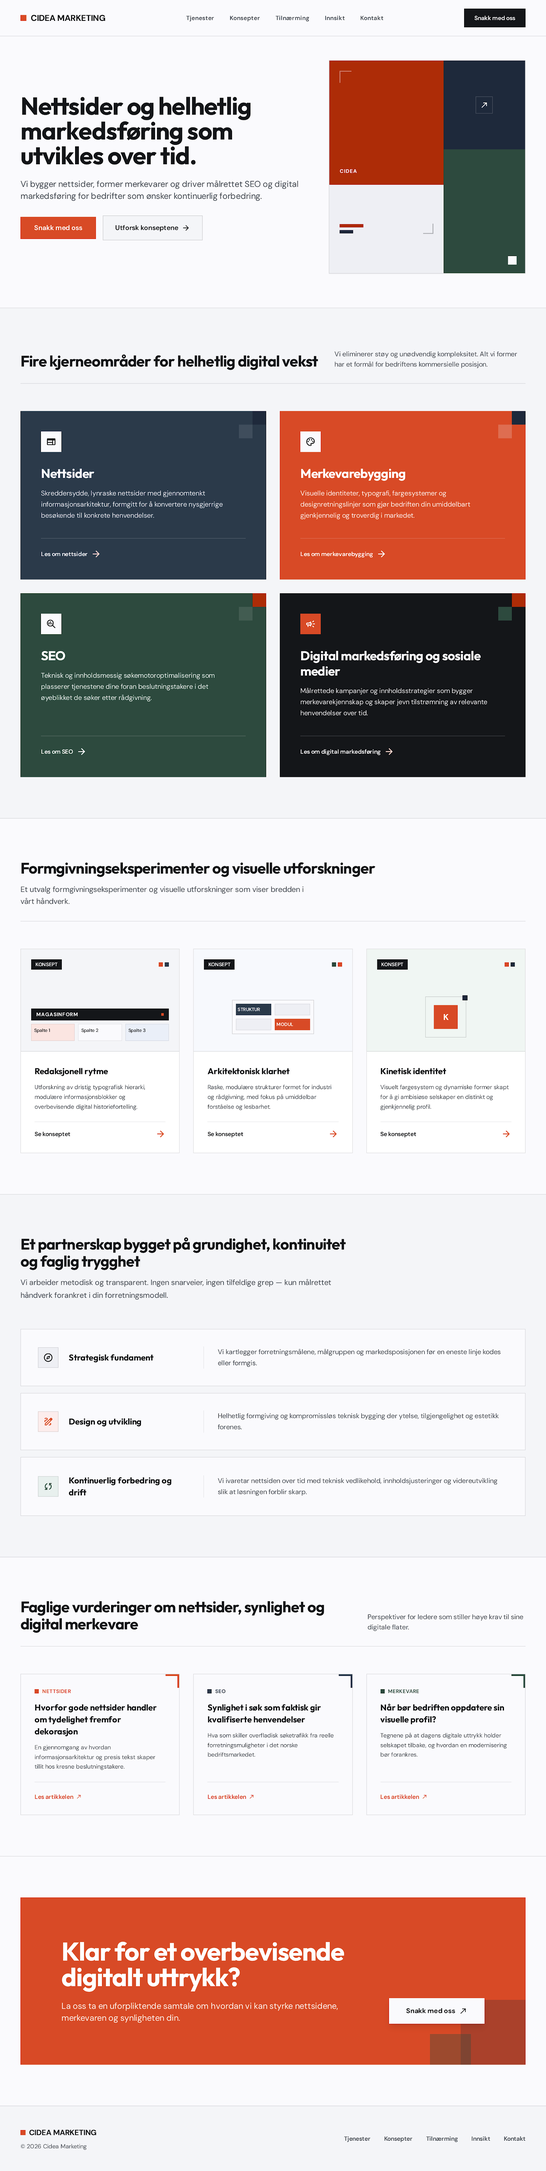
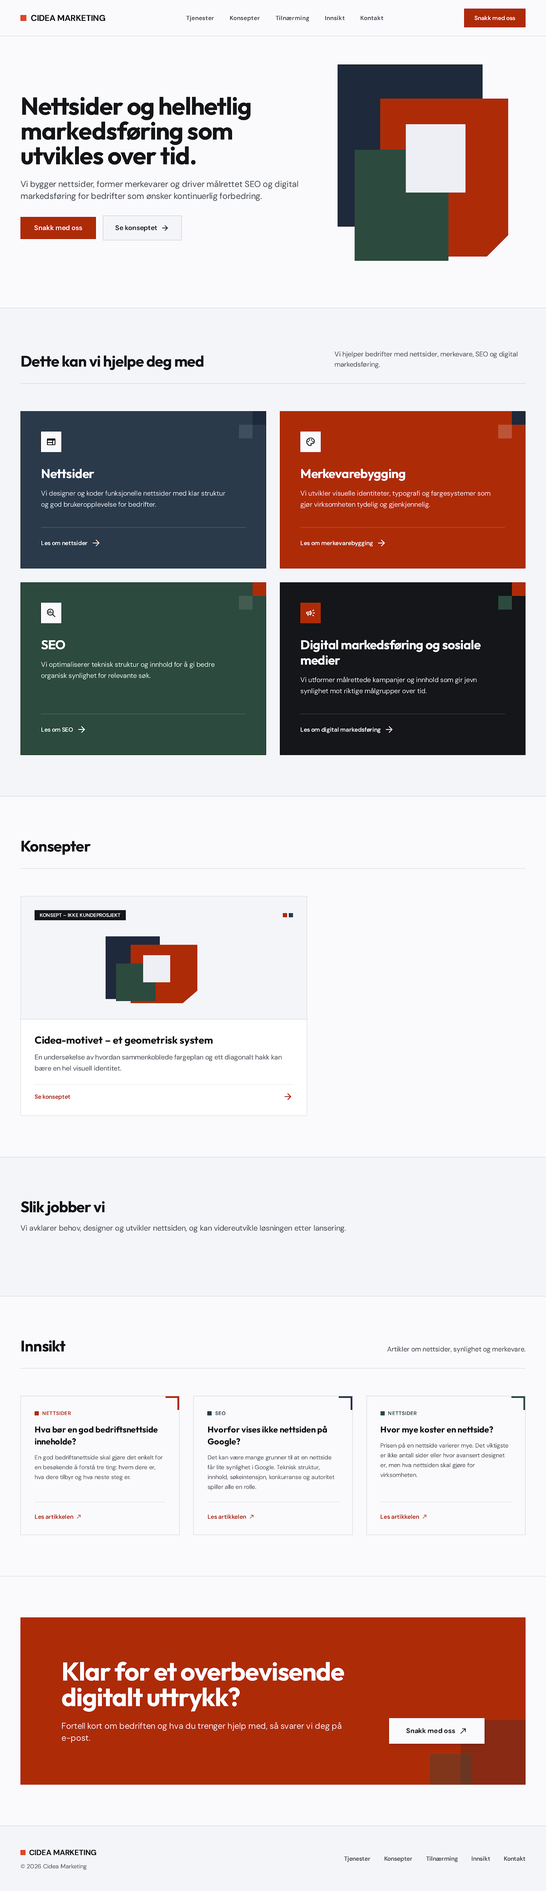
Phase 3 draft 2: all page templates, mobile drafts, motif, measured fonts/contrast, docs

diff --git a/docs/cinematic-pilot/phase3/DESIGN.md b/docs/cinematic-pilot/phase3/DESIGN.md
@@ -1,19 +1,19 @@
 # Designsystem: Cidea Marketing – «Fremtidig håndverk»
 
-**Versjon:** 0.1 (fase 3, utkast) · **Dato:** 2026-10-15 · **Status:** til godkjenning av ChatGPT og bruker, **ikke endelig**
+**Versjon:** 0.2 (fase 3, utkast 2) · **Dato:** 2026-10-16 · **Status:** til endelig visuell vurdering av ChatGPT og bruker, **ikke godkjent**
 **Stitch-prosjekt:** `93182330119187096` · **Stitch-designsystem:** `assets/473aa8ea5d1b4f6ab8db120fc0d1e0e2`
-**Referanseskjermer:** forside desktop `8637a06a08d144859b9986fc1bdb6587`, mobil `d6cda70cf4f642aa99c9ce01425ad8c8`; alle sidemaler i [`README.md`](README.md) (skjermbilder i [`screens/`](screens/))
+**Referanseskjermer:** forside desktop `d9d1feef551d4fe6aad123f6c89bd3a5`, mobil `83a854a8a81d403e990b7c70312f7fa2`; alle sidemaler i [`README.md`](README.md) (skjermbilder i [`screens/`](screens/))
 **Kilde for verdiene:** Tailwind-konfigurasjonen og klassene i Stitch-HTML-en til referanseskjermene (målt av Claude), supplert med Stitch-designsystemet. Der Stitch sin egen designsystem-tekst er utdatert (den beskriver fortsatt harde offset-skygger, kremlerret og hårlinjerammer som er fjernet i fase 2–3), gjelder skjermene og dette dokumentet.
 
 ## 1. Visuell idé og atmosfære
 
 Nordisk, konstruert og selvsikker, som et grafisk verksted med moderne presisjon. Strukturen bæres av **store, mettede fargeflater** i stedet for rammer og skygger. Lys og rolig grunnflate, tung og tydelig typografi, mye luft mellom moduler. Ingen fotografi, ingen gradienter, ingen glass-effekter, ingen «klistremerker».
 
-**Cidea-motivet:** sammenkoblede, rettvinklede fargeplan (terrakotta, marine, skoggrønn, lys stein) som griper inn i hverandre etter én geometrisk regel, med en karakteristisk innskjæring i hjørnet. Motivet brukes
-- **stort** som heltekunst (full heltehøyde på desktop),
-- **lite** som hjørnemarkør på tjenestefelt, konseptkort og artikkelkort.
+**Cidea-motivet (beslutning ChatGPT, utkast 1, punkt 1):** 2–4 sammenkoblede, aksejusterte fargeplan. **Nøyaktig ett plan har et 45°-hakk i nedre høyre hjørne** (hakk = kortsiden / 6), og hakket er alltid synlig. Ingen strek, sirkel, stiplet linje eller tekst i grafikken. Komposisjonen varierer per side, men regelen er den samme. Full spesifikasjon, generator og alle varianter (hero desktop og mobil, tjenestemarkører, artikkel, konseptkort, 404, ikon): [`motif/README.md`](motif/README.md).
+- **Stort** som heltekunst (full heltehøyde på desktop, full innholdsbredde på mobil).
+- **Lite** som hjørnemarkør på tjenestefelt, konseptkort og artikkelkort.
 
-> **Åpent punkt (til ChatGPT):** den sterkeste varianten av motivet finnes i Tilnærming-heroen (sammenkoblede plan med én diagonal hjørneinnskjæring). Forside, Nettsider og Konsepter bruker fortsatt en enklere rektangelvariant, og mobil-forsiden avviker (sirkelform). Motivets endelige regel må låses før fase 4 og tegnes som eget SVG.
+> Status utkast 2: motivet er brukt på forside, Nettsider, Konsepter, Tilnærming, Kontakt, Artikkel og de nye sidene. Unntak: fremhevet artikkel på Innsikt desktop har fortsatt nestede kvadrater uten hakk (se README).
 
 ## 2. Farger og roller
 
@@ -42,7 +42,7 @@ Nordisk, konstruert og selvsikker, som et grafisk verksted med moderne presisjon
 | `#4A4E54` på `#FAFAFD` | 8,03 | OK |
 | `#D84A26` på `#FAFAFD` / `#FFFFFF` | 4,09 / 4,26 | **Ikke** for lenker og små etiketter; bruk `#AD2C07` (6,42 / 6,69) |
 
-> Merk: Stitch-skissene bruker i dag `#D84A26` både på knapper og i små lenker. Det må endres i implementeringen etter regelen over (avvik fra skisse, begrunnet i tilgjengelighet).
+> Utkast 2: alle Stitch-kall har fått regelen eksplisitt, og knappene i skissene bruker nå `#AD2C07`. Store terrakotta-flater (CTA-felt, tjenestefelt) i `#D84A26` med normal hvit brødtekst skal i implementeringen bruke `#AD2C07` som flatefarge. I skissene er CTA-feltene allerede `#AD2C07`.
 
 ## 3. Typografi
 
@@ -51,7 +51,7 @@ Nordisk, konstruert og selvsikker, som et grafisk verksted med moderne presisjon
 - **Begge:** Google Fonts, SIL Open Font License 1.1, støtter æ, ø, å. Skal **selvhostes** i implementeringen (ingen kall til Google Fonts).
 - **Én typografisk idé:** ingen kursiv serif-aksent eller tredje skrift.
 
-> Målt i nettleser (computed font): forside desktop er rettet til Outfit + DM Sans. Nettsider desktop rendres i systemskrift på grunn av en Stitch-feil (se README). Regelen er: overskrifter Outfit, alt annet DM Sans.
+> Målt i nettleser (computed font) for alle skjermer i utkast 2: Outfit + DM Sans. **Unntak:** Nettsider desktop (Stitch-feil, systemskrift). Korrigert referanse er laget ved å rendre samme Stitch-HTML lokalt med regelen `h1–h6 { font-family: Outfit } body, p, a, span, li, button, input, textarea, label { font-family: DM Sans }` og ingen andre endringer (fil merket «korrigert»). React-implementeringen setter fontene globalt fra disse tokenene, så feilen følger ikke med i koden.
 
 | Token | Desktop | Mobil |
 |---|---|---|
@@ -70,10 +70,11 @@ Lange norske ord («Markedsføring», «Merkevarebygging») skal aldri deles; ov
 - **Primærknapp:** fylt `#AD2C07`, hvit tekst (label-lg), hjørneradius 2 px (`0.125rem`), minst 44 px høy. Hover: mørkere flate (`#8A1D00`). Fokus: 3 px synlig ring. Tekst «Snakk med oss» → `/kontakt`.
 - **Sekundærknapp:** lys flate `#F4F5F8` eller hvit med tynn ramme (`#141619` 15 %), mørk tekst.
 - **Tjenestefelt:** store fargeflater (Nettsider = marine, Merkevarebygging = terrakotta, SEO = skoggrønn, Digital markedsføring = nesten-svart). Ikon i lite kvadrat, overskrift, én setning, lenke «Les om …» med pil. Motivmarkør i hjørnet. Ingen skygge.
-- **Konseptkort:** lys flate, etikett «Konsept» (nesten-svart med hvit tekst), illustrasjon, tittel, én setning, lenke «Se konseptet».
+- **Konseptkort:** lys flate, etikett **«Konsept – ikke kundeprosjekt»** (nesten-svart med hvit tekst), motivgrafikk, tittel, én setning, lenke «Se konseptet». Kun ekte, internt laget konsepter.
 - **Artikkelkort:** hvit flate, temaetikett, tittel, ingress, lenke «Les artikkelen», motivmarkør i hjørnet.
-- **Tilnærmingsliste:** rader med ikon, tittel og beskrivelse, delt av tynne linjer.
-- **Avsluttende CTA:** stort fargefelt (terrakotta-flate med dyp-terrakotta-knapp, eller skoggrønn), samme tekst på alle sider og skjermstørrelser.
+- **Prosess («Slik jobber vi»):** tre sammenhengende fargeplan (marine, dyp terrakotta, skoggrønn) side om side på desktop, stablet og fortsatt i berøring på mobil. Hvit tekst, ingen rammer.
+- **Liste («Hva du kan forvente»):** enkle rader delt av tynne linjer, uten rammer eller garantier.
+- **Avsluttende CTA:** stort fargefelt (dyp terrakotta eller skoggrønn) med overskrift «Klar for et overbevisende digitalt uttrykk?», setning «Fortell kort om bedriften og hva du trenger hjelp med, så svarer vi deg på e-post.» og knapp «Snakk med oss», identisk på alle sider og skjermstørrelser. Ikke på Kontakt og Personvern.
 - **Toppmeny:** ordmerke «CIDEA MARKETING» med lite terrakotta-kvadrat, lenker, mørk knapp «Snakk med oss». Mobil: knapp «Meny» (med tekst) og fullskjermmeny.
 - **Ikoner:** Material Symbols Outlined (Apache License 2.0), ett vekt-/fyllnivå. Selvhostes eller byttes til SVG.
 - **Skjema (kontakt):** etikett over felt, tydelig ramme, feilmelding i tekst (ikke kun farge).
@@ -98,9 +99,20 @@ Lange norske ord («Markedsføring», «Merkevarebygging») skal aldri deles; ov
 
 Ingen fotografi. All grafikk er egne, flate fargeplan og geometriske former som kan tegnes i SVG. Ingen AI-genererte bilder er brukt i konsept C. Se [`RETTIGHETER.md`](RETTIGHETER.md).
 
-## 8. Ikke avgjort / gjenstår før godkjenning
+## 8. Godkjent tekst (ChatGPT-review utkast 1) og åpne punkter
 
-1. Endelig regel for Cidea-motivet, og lik heltekunst på desktop og mobil.
-2. Ordmerke/logo: i dag tekst «CIDEA MARKETING» i Outfit med terrakotta-kvadrat. Ingen godkjent logofil finnes.
-3. All norsk tekst (overskrifter, ingresser, lenketekster) må godkjennes av ChatGPT.
-4. Tekst i Stitch-skissene som fortsatt bør vurderes: «Fire kjerneområder for helhetlig digital vekst» (desktop) mot «Kjerneområder for helhetlig vekst» (mobil), «Formgivningseksperimenter og visuelle utforskninger», «Et partnerskap bygget på grundighet, kontinuitet og faglig trygghet».
+| Element | Tekst | Status |
+|---|---|---|
+| H1 forside | «Nettsider og helhetlig markedsføring som utvikles over tid.» | Foreløpig godkjent av ChatGPT |
+| Primær CTA | «Snakk med oss» → `/kontakt` | Godkjent |
+| Avsluttende CTA, overskrift | «Klar for et overbevisende digitalt uttrykk?» | Godkjent |
+| Avsluttende CTA, setning | «Fortell kort om bedriften og hva du trenger hjelp med, så svarer vi deg på e-post.» | **Claudes forslag, til godkjenning** |
+| Tjenesteseksjon | «Dette kan vi hjelpe deg med» | ChatGPTs forslag, brukt likt på desktop og mobil |
+| Lenker | «Les om nettsider / merkevarebygging / SEO / digital markedsføring», «Se konseptet», «Les artikkelen» | Godkjent |
+| Konseptetikett | «Konsept – ikke kundeprosjekt» | Godkjent |
+| Tjenestebeskrivelser | Fra `docs/commercial-offer.md` (uten priser) | Til godkjenning |
+
+**Åpne punkter:**
+1. Ordmerke/logo: tekst «CIDEA MARKETING» i Outfit med terrakotta-kvadrat. Ingen godkjent logofil finnes (eier).
+2. H1 på Tilnærming: «Et langsiktig partnerskap for digital vekst og stabilitet.» – «stabilitet» bør vurderes.
+3. Motivregelen må godkjennes visuelt av bruker.

diff --git a/docs/cinematic-pilot/phase3/README.md b/docs/cinematic-pilot/phase3/README.md
@@ -1,5 +1,65 @@
-# Fase 3/9 – designsystem og sidemaler (utkast 1)
+# Fase 3/9 – designsystem og sidemaler
 
+## Utkast 2 (2026-10-16) – klart for endelig visuell vurdering
+
+**Status:** utkast 2 er ferdig og klart for **ChatGPTs og brukerens endelige visuelle vurdering**. Fase 3 er **ikke godkjent**. Ingen frontend-kode, merge, deploy eller betalte tjenester.
+**Grunnlag:** [`CHATGPT-REVIEW-UTKAST1.md`](CHATGPT-REVIEW-UTKAST1.md). Konsept C beholdt; ingen ny designretning.
+**Alt om kall, korrigeringer og målinger:** [`UTKAST2-LOGG.md`](UTKAST2-LOGG.md) · **Oversikt:** [`oversikt-utkast2.png`](oversikt-utkast2.png) · **Motiv:** [`motif/README.md`](motif/README.md)
+**Oppdatert:** [`DESIGN.md`](DESIGN.md) v0.2, [`SIDEPLAN.md`](SIDEPLAN.md) (inkl. faktagodkjenninger som bare eier kan gi), [`RETTIGHETER.md`](RETTIGHETER.md)
+
+### Gjeldende skjermer (13 sidemaler, 22 skjermer)
+
+| Side | Desktop | Mobil |
+|---|---|---|
+| Forside | `d9d1feef…` [bilde](screens/forside-desktop.png) | `83a854a8…` [bilde](screens/forside-mobil.png) |
+| Nettsider (tjenestemal) | `d353c204…` [korrigert typografi](screens/nettsider-desktop-korrigert.png) | `01caa6b9…` [bilde](screens/nettsider-mobil.png) |
+| Merkevarebygging | `4cc702e9…` [bilde](screens/merkevarebygging-desktop.png) | – (samme mal) |
+| SEO | – (samme mal) | `1a242cbc…` [bilde](screens/seo-mobil.png) |
+| Digital markedsføring | `652be3e3…` [bilde](screens/digital-markedsforing-desktop.png) | – (samme mal) |
+| Konsepter | `5fb1d1b6…` [bilde](screens/konsepter-desktop.png) | `6bb60eb8…` [bilde, rendret 390 px](screens/konsepter-mobil.png) |
+| Konsept: Cidea-motivet | `f764baae…` [bilde](screens/konsept-detalj-desktop.png) | `725ce4ce…` [bilde](screens/konsept-detalj-mobil.png) |
+| Tilnærming | `1d08e9b4…` [bilde](screens/tilnaerming-desktop.png) | `6314d0b2…` [bilde, rendret 390 px](screens/tilnaerming-mobil.png) |
+| Innsikt | `34a49455…` [bilde](screens/innsikt-desktop.png) | `41be1227…` [bilde](screens/innsikt-mobil.png) |
+| Artikkel | `5af05b50…` [bilde](screens/artikkel-desktop.png) | `f48dc482…` [bilde](screens/artikkel-mobil.png) |
+| Kontakt | `68f989a6…` [bilde](screens/kontakt-desktop.png) | `c0cbf2d2…` [bilde](screens/kontakt-mobil.png) |
+| Personvern | `c48131a6…` [bilde](screens/personvern-desktop.png) | – (artikkelmal) |
+| 404 | `3688cf83…` [bilde](screens/404-desktop.png) | `314bd16e…` [bilde](screens/404-mobil.png) |
+
+Skjermbilder fra utkast 1 er flyttet til [`screens/utkast1/`](screens/utkast1/), ikke slettet. Ingen Stitch-skjermer er slettet.
+
+### Kontroll mot ChatGPT-review utkast 1
+
+| Punkt | Status |
+|---|---|
+| 1 Motiv: ett diagonalt hakk, systematisk, SVG, ≥2 ulike bruk | Utført: regel + generator + 10 varianter (`motif/`). Brukt i alle heroer, tjenestemarkører, konseptkort, artikkel, 404, ikon. **Åpent:** heroene bruker stort sett samme komposisjon; variasjon per side bør designes i fase 4 |
+| 2 H1 forside | Beholdt: «Nettsider og helhetlig markedsføring som utvikles over tid.» |
+| 3 CTA | «Snakk med oss» → /kontakt. Avsluttende CTA identisk overalt. Setningen er Claudes forslag (se DESIGN.md § 8) |
+| 4 Sekundære lenker | «Les om …», «Se konseptet», «Les artikkelen». «Les mer»/«Metodikk»/«Se arkitektur»/«Kampanjeform» borte |
+| 5 Uverifiserbare påstander | Fjernet (kompromissløs, lynraske, aldri stagnerer, fagperson-/kontaktperson-løfter). Erstattet med prosessbeskrivelse |
+| 6 Tjenesteoverskrift | «Dette kan vi hjelpe deg med», lik på desktop og mobil |
+| 7 Konsepter | Bare ett ekte, internt laget konsept (Cidea-motivet), merket «Konsept – ikke kundeprosjekt», med egen detaljside. «Flere konsepter kommer» i stedet for oppdiktede kort |
+| 8 Innsikt | Titler og utdrag hentet ordrett fra `blog/*.md` |
+| 9 URL-er | Norsk IA ført inn i SIDEPLAN. Omdirigeringer ikke utført |
+| 10 Kontrast og fonter | Målt på alle skjermer: 3 små avvik (se logg). Nettsider desktop: typografi korrigert lokalt uten kreditter |
+| 11 Tilnærming | Rammede bokser erstattet av sammenhengende fargeplan og en enkel liste |
+| 12 Kontakt | Ingen kontaktdata eller svartidsløfte. Samtykke beskriver faktisk bruk. Personvern med tydelige hull |
+| Mobil for Konsepter, Tilnærming, Innsikt | Utført |
+| Tjenestevarianter | Merkevarebygging (D), SEO (M), Digital markedsføring (D) på felles mal, med ekte tilbudstekst (uten priser) |
+| Konsept-detalj, personvern, 404 | Utført (konsept D+M, personvern D, 404 D+M) |
+| Faktagodkjenninger fra eier | Listet i SIDEPLAN.md |
+
+### Til vurdering (ChatGPT / bruker)
+
+- H1 Tilnærming «… for digital vekst og stabilitet» («stabilitet» bør vurderes).
+- Konsepter-siden: «Hva betyr konsept hos oss?» har fortsatt «metodiske tankesett».
+- Innsikt desktop: fremhevet artikkelgrafikk følger ikke motivregelen (nestede kvadrater uten hakk). Kortene har fortsatt rammer.
+- Merkevarebygging og Digital markedsføring: «Hva vi leverer» vises som rammede kort; mindre rolig enn Nettsider-malen.
+- Konsepter desktop: CTA-feltet er grått, mens de andre sidene har fargefelt (teksten er lik).
+- Tjenestebeskrivelser fra `commercial-offer.md` må bekreftes av eier.
+
+---
+
+## Utkast 1 (2026-10-15) – historikk
 **Status:** utkast 1 er ferdig og **klart for vurdering** av ChatGPT og bruker. Fase 3 er **ikke godkjent**. Ingen kode, merge eller deploy.
 **Grunnlag:** [`phase2/REVIEW-C-RAFFINERT.md`](../phase2/REVIEW-C-RAFFINERT.md) (ChatGPT) og brukerens instruks 2026-10-15. Stitch har videreutviklet det valgte konseptet C i samme prosjekt (`93182330119187096`) med samme designsystem (`assets/473aa8ea5d1b4f6ab8db120fc0d1e0e2`); det er ikke laget noe nytt design.
 
@@ -8,20 +68,20 @@
 - [`SIDEPLAN.md`](SIDEPLAN.md) – alle sider, URL-forslag, seksjoner og åpne beslutninger
 - [`RETTIGHETER.md`](RETTIGHETER.md) – fonter, ikoner, grafikk, tekst og hva som må avklares
 - [`oversikt-sidemaler.png`](oversikt-sidemaler.png) – toppen av alle sidemaler, desktop og mobil
-- [`screens/`](screens/) – fullsideskjermbilder av gjeldende versjon
+- [`screens/utkast1/`](screens/utkast1/) – fullsideskjermbilder av gjeldende versjon
 - [`prompts/`](prompts/) – nøyaktig tekst sendt til Stitch
 
 ## Gjeldende skjermer
 
 | Side | Desktop (skjerm-ID) | Mobil (skjerm-ID) | Skjermbilder |
 |---|---|---|---|
-| Forside | `8637a06a08d144859b9986fc1bdb6587` | `d6cda70cf4f642aa99c9ce01425ad8c8` | [D](screens/forside-desktop.png) · [M](screens/forside-mobil.png) |
-| Nettsider (tjenestemal) | `c5c4a724f092487d89ff83f1b5626ccb` | `3ba34eab578b4994a7a080150ab78509` | [D](screens/nettsider-desktop.png) · [M](screens/nettsider-mobil.png) |
-| Konsepter | `a9c892230d5d407b8e4b72e717d81d73` | – | [D](screens/konsepter-desktop.png) |
-| Tilnærming | `292e808f0a7a405c842850bf01761193` | – | [D](screens/tilnaerming-desktop.png) |
-| Innsikt | `f11919039d264f988698de1d592612f1` | – | [D](screens/innsikt-desktop.png) |
-| Artikkel | `de0bfca3224b4dd68e5344e6993a0be4` | `efa238d80f754c929ef305685e7862a4` | [D](screens/artikkel-desktop.png) · [M](screens/artikkel-mobil.png) |
-| Kontakt | `804ed05a86054254b83d62d87cac1d51` | `9545dbf4accc491d947de4acb452906a` | [D](screens/kontakt-desktop.png) · [M](screens/kontakt-mobil.png) |
+| Forside | `8637a06a08d144859b9986fc1bdb6587` | `d6cda70cf4f642aa99c9ce01425ad8c8` | [D](screens/utkast1/forside-desktop.png) · [M](screens/utkast1/forside-mobil.png) |
+| Nettsider (tjenestemal) | `c5c4a724f092487d89ff83f1b5626ccb` | `3ba34eab578b4994a7a080150ab78509` | [D](screens/utkast1/nettsider-desktop.png) · [M](screens/utkast1/nettsider-mobil.png) |
+| Konsepter | `a9c892230d5d407b8e4b72e717d81d73` | – | [D](screens/utkast1/konsepter-desktop.png) |
+| Tilnærming | `292e808f0a7a405c842850bf01761193` | – | [D](screens/utkast1/tilnaerming-desktop.png) |
+| Innsikt | `f11919039d264f988698de1d592612f1` | – | [D](screens/utkast1/innsikt-desktop.png) |
+| Artikkel | `de0bfca3224b4dd68e5344e6993a0be4` | `efa238d80f754c929ef305685e7862a4` | [D](screens/utkast1/artikkel-desktop.png) · [M](screens/utkast1/artikkel-mobil.png) |
+| Kontakt | `804ed05a86054254b83d62d87cac1d51` | `9545dbf4accc491d947de4acb452906a` | [D](screens/utkast1/kontakt-desktop.png) · [M](screens/utkast1/kontakt-mobil.png) |
 
 Ikke laget i utkast 1 (gjenbruker maler, jf. SIDEPLAN): Merkevarebygging, SEO og Digital markedsføring (tjenestemal), konsept-detalj, personvern, 404, samt mobil for Konsepter, Tilnærming og Innsikt.
 

diff --git a/docs/cinematic-pilot/phase3/UTKAST2-LOGG.md b/docs/cinematic-pilot/phase3/UTKAST2-LOGG.md
@@ -1,14 +1,48 @@
 # Fase 3, utkast 2 – fremdriftslogg
 
-**Ramme:** maks 100 Stitch-kreditter (brukerens instruks 2026-10-16; kvote 0/400 ved start). Claudes eget tak: 22 kall (≈4 kreditter per kall som forsiktig anslag). Alle Stitch-kall kjøres **sekvensielt**, aldri flere redigeringer samtidig i samme prosjekt.
-**Grunnlag:** [`CHATGPT-REVIEW-UTKAST1.md`](CHATGPT-REVIEW-UTKAST1.md). Felles regler for alle kall: [`prompts/u2-00-regler.md`](prompts/u2-00-regler.md).
+**Status:** utkast 2 er **klart for endelig visuell vurdering** av ChatGPT og bruker. Fase 3 er **ikke godkjent**.
+**Ramme:** maks 100 Stitch-kreditter (brukerens instruks 2026-10-16; kvote 0/400 ved start). Claudes eget tak: 22 kall (≈4 kreditter per kall som forsiktig anslag). **Brukt: 21 kall.** Kredittforbruket er *ikke verifisert* før brukeren leser av telleren. Alle kall er kjørt **sekvensielt**, aldri flere redigeringer samtidig i samme prosjekt.
+**Grunnlag:** [`CHATGPT-REVIEW-UTKAST1.md`](CHATGPT-REVIEW-UTKAST1.md). Felles regler i alle kall: [`prompts/u2-00-regler.md`](prompts/u2-00-regler.md). Oversikt over alle sidemaler: [`oversikt-utkast2.png`](oversikt-utkast2.png).
 
-| # | Oppgave | Kall | Resultat | Kontroll (målt) |
-|---|---|---|---|---|
-| 0 | Motivregel som eget SVG (`motif/`) | 0 (lokalt) | 10 varianter, regelen sjekkes i skriptet | Oversikt: [`motif/motiv-oversikt.png`](motif/motiv-oversikt.png) |
-| 1 | Forside D+M: motiv, «Dette kan vi hjelpe deg med», ett ekte konsept, ekte artikkelutdrag, CTA | `edit_screens` | OK. Nye skjermer `069796fa…` / `482adc8b…` | Fonter OK. Overskrifter ulike D/M → steg 2 |
-| 2 | Forside D+M: like seksjonsoverskrifter, fjerne fylltekst | `edit_screens` | OK. `d9d1feef…` (D), `83a854a8…` (M) | Fonter OK, CTA OK, like overskrifter (Konsepter · Slik jobber vi · Innsikt). Merk: «Nettsteder» står i HTML-`<title>` (ikke synlig); rettes i implementeringen |
-| 3 | Nettsider D+M: motiv, ekte tilbudstekst, «minste tiltaket», ekte artikler | `edit_screens` | OK. `0bbd44be…` (D), `986bfd78…` (M) | Mobil: fonter OK. Desktop: **Stitch-feil, systemskrift**. Lokal korrigering laget (se under) |
-| 4 | Nettsider D+M: fjerne pitch- og fylltekst, fargeplan i «Slik jobber vi» | `edit_screens` | *pågår* | |
+## Kall-logg
 
-**Nettsider desktop – typografikorrigering uten kreditter:** Stitch-HTML-en for skjermen rendres lokalt i Chromium med designsystemets fontregel injisert (`h1–h6` Outfit, øvrig tekst DM Sans). Ingen andre endringer. Målt etterpå: `Outfit / DM Sans`. Det korrigerte skjermbildet brukes som referanse og er merket «korrigert» i filnavnet. React-implementeringen setter fontene globalt fra `DESIGN.md`, så feilen følger ikke med i koden.
+| # | Tid | Steg | Verktøy | Prompt | Resultat (skjerm-ID) |
+|---|---|---|---|---|---|
+| – | 13:00 | Cidea-motivet som eget SVG | lokalt (0 kreditter) | [`motif/`](motif/README.md) | 10 varianter, regelen sjekkes automatisk |
+| 1 | 13:15 | Forside D+M: motiv, tjenesteoverskrift, ett ekte konsept, ekte artikkelutdrag, CTA | `edit_screens` | [u2-01](prompts/u2-01-forside.md) | `069796fa…`, `482adc8b…` |
+| 2 | 13:18 | Forside D+M: like seksjonsoverskrifter, fylltekst fjernet | `edit_screens` | [u2-01b](prompts/u2-01b-forside-overskrifter.md) | **`d9d1feef…`** (D), **`83a854a8…`** (M) |
+| 3 | 13:21 | Nettsider D+M: motiv, ekte tilbudstekst, «minste tiltaket» | `edit_screens` | [u2-02](prompts/u2-02-nettsider.md) | `0bbd44be…`, `986bfd78…` |
+| 4 | 13:24 | Nettsider D+M: pitch- og fylltekst bort, fargeplan i «Slik jobber vi» | `edit_screens` | [u2-02b](prompts/u2-02b-nettsider-tekst.md) | **`d353c204…`** (D), **`01caa6b9…`** (M) |
+| 5 | 13:26 | Konsepter + Innsikt D: ett ekte konsept, ekte utdrag | `edit_screens` | [u2-03](prompts/u2-03-konsepter-innsikt.md) | **`5fb1d1b6…`**, **`34a49455…`** |
+| 6 | 13:28 | Tilnærming D: fargeplan, liste uten garantier, påstander fjernet | `edit_screens` | [u2-04](prompts/u2-04-tilnaerming.md) | **`1d08e9b4…`** |
+| 7 | 13:30 | Artikkel D+M, Kontakt D+M: motiv, samtykke, «Hva skjer videre?» | `edit_screens` | [u2-05](prompts/u2-05-artikkel-kontakt.md) | **`5af05b50…`**, **`f48dc482…`**, **`68f989a6…`**, **`c0cbf2d2…`** |
+| 8 | 13:32 | Konsepter mobil via variant | `generate_variants` | [u2-11](prompts/u2-11-variant-mobil.md) | **Bortkastet:** Stitch ignorerte MOBILE og laget en desktopvariant (`f627393b…`, brukes ikke) |
+| 9 | 13:34 | Konsepter mobil | `generate_screen_from_text` | [u2-12](prompts/u2-12-konsepter-mobil.md) | `6bb60eb8…`, mobiloppsett men merket DESKTOP → rendret lokalt i 390 px |
+| 10 | 13:36 | Tilnærming mobil | `generate_screen_from_text` | [u2-13](prompts/u2-13-tilnaerming-mobil.md) | `6314d0b2…`, samme som over → rendret lokalt i 390 px |
+| 11 | 13:37 | Innsikt mobil | `generate_screen_from_text` | [u2-14](prompts/u2-14-innsikt-mobil.md) | **`41be1227…`** |
+| 12 | 13:40 | Merkevarebygging D | `generate_screen_from_text` | [u2-20](prompts/u2-20-tjeneste-merkevarebygging.md) | `528f6980…` (hadde «Fase 1/2/3») |
+| 13 | 13:42 | SEO mobil | `generate_screen_from_text` | [u2-21](prompts/u2-21-tjeneste-seo-mobil.md) | **`1a242cbc…`** |
+| 14 | 13:44 | Digital markedsføring D | `generate_screen_from_text` | [u2-22](prompts/u2-22-tjeneste-digital.md) | **`652be3e3…`** |
+| 15 | 13:47 | Konsept-detalj D | `generate_screen_from_text` | [u2-30](prompts/u2-30-konsept-detalj.md) | **`f764baae…`** |
+| 16 | 13:48 | Konsept-detalj M | `generate_screen_from_text` | [u2-30](prompts/u2-30-konsept-detalj.md) | **`725ce4ce…`** |
+| 17 | 13:50 | Personvern D | `generate_screen_from_text` | [u2-40](prompts/u2-40-personvern.md) | **`c48131a6…`** |
+| 18 | 13:52 | 404 D | `generate_screen_from_text` | [u2-41](prompts/u2-41-404.md) | **`3688cf83…`** |
+| 19 | 13:54 | 404 M | `generate_screen_from_text` | [u2-41](prompts/u2-41-404.md) | **Tomt svar** (ingen skjerm returnert; `list_screens` ga `{}` ved kontroll) |
+| 20 | 13:58 | Merkevarebygging D: fjerne «Fase 1/2/3» | `edit_screens` | [u2-20b](prompts/u2-20b-merkevare-fiks.md) | **`4cc702e9…`** |
+| 21 | 14:00 | 404 M, nytt forsøk | `generate_screen_from_text` | [u2-41](prompts/u2-41-404.md) | **`314bd16e…`** |
+
+**Fet** = gjeldende skjerm i [`screens/`](screens/).
+
+## Korrigeringer uten kreditter (lokal rendring av Stitch-HTML)
+
+| Skjerm | Problem | Korrigering | Fil |
+|---|---|---|---|
+| Nettsider desktop (`d353c204…`) | Stitch-HTML mangler fontklasser, så den rendres i systemskrift | Samme HTML rendret i Chromium med designsystemets fontregel injisert, ellers uendret. Målt etterpå: Outfit / DM Sans | `screens/nettsider-desktop-korrigert.png` (originalen ligger ved som `…-stitch-systemskrift.png`) |
+| Konsepter mobil (`6bb60eb8…`), Tilnærming mobil (`6314d0b2…`) | Mobiloppsett, men Stitch merket skjermen DESKTOP og rendret den i 2560 px | Samme HTML rendret uendret i 390 px viewport (2×). Horisontal overflow: 0 px | `screens/konsepter-mobil.png`, `screens/tilnaerming-mobil.png` |
+
+## Målt kvalitet på alle 22 gjeldende skjermer
+
+- **Typografi (computed font i Chromium):** Outfit for overskrifter og DM Sans for tekst på alle skjermer. Unntak: Nettsider desktop i Stitch-original (korrigert, se over).
+- **Kontrast (WCAG 2.2 AA, hvert synlige tekstelement mot nærmeste bakgrunn):** 941 elementer målt, **3 under AA**, alle liten grå tekst på mobil: «Vi publiserer nye konsepter …» (4,34:1), «© 2026 Cidea Marketing» (4,05 og 3,99). Løses i implementeringen med `#4A4E54` (8,03:1).
+- **Forbudte ord** (kompromissløs, lynrask, aldri stagnerer, Nettsteder, Les mer, fast kontaktperson, nummerering): ingen synlige forekomster etter rettingene. «Les mer i personvernerklæringen» på Kontakt er en bevisst lenketekst med navngitt mål. «Nettsteder» finnes bare i en usynlig HTML-`<title>` på forsiden.
+- **Avsluttende CTA:** identisk overskrift, setning og knapp på alle sider som har den.

diff --git a/docs/cinematic-pilot/phase3/SIDEPLAN.md b/docs/cinematic-pilot/phase3/SIDEPLAN.md
@@ -1,6 +1,6 @@
 # Sideplan – Cidea Marketing (fase 3, utkast 1)
 
-**Status:** utkast fra Claude Code 2026-10-15, til godkjenning av ChatGPT og bruker. Planen beskriver **struktur og funksjon** per side. Endelig norsk tekst skrives og godkjennes av ChatGPT; tekst i Stitch-skissene er utkast.
+**Status:** utkast 2 (2026-10-16). Informasjonsarkitekturen med norske URL-er er **godkjent av ChatGPT som arbeidsmål** (review utkast 1, punkt 9). Omdirigeringer er **ikke** godkjent som teknisk trygge; de vurderes i implementerings- og SEO-fasen. Planen beskriver **struktur og funksjon** per side. Endelig norsk tekst skrives og godkjennes av ChatGPT; tekst i Stitch-skissene er utkast.
 **Visuell retning:** konsept C «Fremtidig håndverk» (Stitch-prosjekt `93182330119187096`). Designsystem: se [`DESIGN.md`](DESIGN.md).
 **Felles regler for alle sider:** kun norsk bokmål; «Nettsider» (aldri «Nettsteder»); ingen dekorativ nummerering, engelske etiketter, fylltekst, oppdiktede kunder/tall/sitater/kontaktopplysninger; hoved-CTA «Snakk med oss» → `/kontakt`; konseptarbeid merkes alltid «Konsept».
 
@@ -17,17 +17,17 @@
 |---|---|---|---|---|---|
 | Forside | `/` | `/` | Inntrykk av designkvalitet; forstå tilbudet på 15 s; finne kontakt | Hero med Cidea-motiv · tjenester som fargefelt · konsepter · tilnærming · innsikt (3 artikler) · CTA | ✔ (forbedret i fase 3) |
 | Nettsider | `/nettsider` | `/websites` | Forklare hva Cidea leverer innen nettsider og hvordan | Hero · hva vi leverer · slik jobber vi · vedlikehold og videreutvikling · relaterte konsepter · relaterte artikler · CTA | ✔ (tjenestemal) |
-| Merkevarebygging | `/merkevarebygging` | `/branding` | Samme mal som Nettsider | samme mal | bruker tjenestemalen |
-| SEO | `/seo` | `/seo` | Samme mal; forklarer løpende arbeid uten løfter om rangeringer | samme mal | bruker tjenestemalen |
-| Digital markedsføring og sosiale medier | `/digital-markedsforing` | `/digital-marketing` | Samme mal; innhold, kanaler, distribusjon | samme mal | bruker tjenestemalen |
+| Merkevarebygging | `/merkevarebygging` | `/branding` | Samme mal som Nettsider, eget innhold | samme mal | ✔ desktop (utkast 2) |
+| SEO | `/seo` | `/seo` | Samme mal; forklarer løpende arbeid uten løfter om rangeringer | samme mal | ✔ mobil (utkast 2) |
+| Digital markedsføring og sosiale medier | `/digital-markedsforing` | `/digital-marketing` | Samme mal; innhold, kanaler, distribusjon | samme mal | ✔ desktop (utkast 2) |
 | Konsepter | `/konsepter` | – (ny) | Vise designevne med tydelig merkede konseptutforskninger, ingen falske kunder | Intro · rutenett med konsept-kort · forklaring på hva et konsept er · CTA | ✔ |
-| Konsept (detalj) | `/konsepter/{slug}` | – | Ett konsept: idé, visuelle valg, hva det demonstrerer | Hero · bilder/grafikk · beskrivelse · tilbake til konsepter | senere (gjenbruker artikkelmal) |
+| Konsept (detalj) | `/konsepter/cidea-motivet` | – | Ett ekte, internt laget konsept: Cidea-motivet | Hero · regelen · slik brukes det · hva konseptet viser · tilbake | ✔ desktop + mobil (utkast 2) |
 | Tilnærming / Om Cidea | `/tilnaerming` | – (ny) | Tillit: hvem Cidea Marketing er (del av Cidea) og hvordan samarbeidet fungerer over tid | Hero · slik jobber vi · hva du kan forvente · om Cidea · CTA | ✔ |
 | Innsikt (bloggoversikt) | `/innsikt` | `/blog` | Publiserte artikler, filtrerbart på tema | Intro · temafilter (Nettsider, Merkevare, SEO, Digital markedsføring) · artikkelkort · CTA | ✔ |
 | Artikkel | `/innsikt/{slug}` | `/blog/{slug}` | Lesevennlig fagartikkel | Tittel · ingress · brødtekst med mellomtitler · relaterte artikler · CTA | ✔ |
 | Kontakt | `/kontakt` | – (i dag mailto) | Enkel henvendelse | Kort intro · skjema (navn, bedrift, e-post, hva gjelder det, melding) · personvernmerknad · bekreftelse | ✔ (uten oppdiktede kontaktdata) |
-| Personvern | `/personvern` | – | Påkrevd før skjema/analyse | Ren tekstside | ingen skisse nødvendig (artikkelmal) |
-| 404 | – | – | Hjelpe videre | Kort tekst · lenker til hovedsider | senere |
+| Personvern | `/personvern` | – | Påkrevd før skjema/analyse | Ren tekstside med tydelig merkede hull | ✔ desktop (utkast 2) |
+| 404 | – | – | Hjelpe videre | Kort tekst · lenker til hovedsider | ✔ desktop + mobil (utkast 2) |
 
 **Eksisterende artikler** (`blog/*.md`) flyttes til `/innsikt/{samme slug}`:
 `hva-bor-en-god-bedriftsnettside-inneholde`, `hvorfor-vises-ikke-nettsiden-pa-google`, `hvor-mye-koster-en-nettside`, `hvordan-fa-flere-henvendelser-fra-nettsiden`.
@@ -39,3 +39,15 @@
 3. **Engelsk versjon:** utelates til en komplett oversettelse finnes (briefen). Dagens NO/EN-knapp fjernes i implementeringen.
 4. **Om Cidea:** hvilke fakta om selskapet (personer, sted, organisasjon) som kan publiseres, må leveres av bruker. Skissen bruker ingen navn eller tall.
 5. **Konsepter:** hvilke konsepter som skal vises, og deres rettigheter (alt skal være eget, originalt materiale).
+
+## Faktagodkjenninger som bare eier kan gi (ikke funnet på i skissene)
+
+| Hva | Hvor det trengs | Status |
+|---|---|---|
+| Juridisk selskapsnavn, organisasjonsnummer, adresse | Personvern, bunntekst | Mangler. Merket «[fylles inn]» på Personvern |
+| Fakta om Cidea og Cidea Marketing (hvem, hvor, siden når) | Tilnærming / Om | Mangler. Skissen sier bare at Cidea Marketing er en del av Cidea |
+| Hvem som svarer på henvendelser, og mottakeradresse for skjemaet | Kontakt, Personvern | Mangler. Skissen lover bare svar på e-post, ingen tid |
+| Lagringstid for henvendelser | Personvern | Mangler |
+| Logo/ordmerke og varemerkerettigheter | Hele nettstedet | Ingen godkjent logofil |
+| Hvilke konsepter som faktisk er laget, utover Cidea-motivet | Konsepter | Kun Cidea-motivet er dokumentert |
+| Om tjenestebeskrivelsene i `commercial-offer.md` fortsatt gjelder | Tjenestesider | Brukt uten priser; må bekreftes |

diff --git a/docs/cinematic-pilot/phase3/RETTIGHETER.md b/docs/cinematic-pilot/phase3/RETTIGHETER.md
@@ -1,18 +1,19 @@
 # Rettigheter og ressursoversikt – konsept C (fase 3)
 
-**Status:** utkast 2026-10-15 (Claude Code). Punkter merket **«Må avklares»** er ikke verifisert, og må avklares av bruker før lansering.
+**Status:** utkast 2, 2026-10-16 (Claude Code). Punkter merket **«Må avklares»** er ikke verifisert, og må avklares av bruker før lansering.
 
 | Ressurs | Brukes til | Kilde | Lisens / vilkår | Status |
 |---|---|---|---|---|
 | Outfit (skrift) | Overskrifter | Google Fonts | SIL Open Font License 1.1: fri kommersiell bruk, kan selvhostes | OK. Lisensfil legges ved når fontene selvhostes |
 | DM Sans (skrift) | Brødtekst, etiketter | Google Fonts | SIL Open Font License 1.1 | OK. Lisensfil legges ved når fontene selvhostes |
 | Material Symbols Outlined (ikoner) | Tjenesteikoner, piler, meny | Google (via Stitch-HTML) | Apache License 2.0: fri kommersiell bruk med lisensmerknad | OK. Lisensmerknad legges ved. Alternativ: egne SVG-ikoner |
-| Cidea-motivet (fargeplan) og heltekunst | Hero, markører på kort | Generert av Google Stitch som HTML/CSS-former, ingen bildefiler | Stitch/Google Labs sine vilkår for bruk av generert innhold | **Må avklares:** brukeren bør lese gjeldende Stitch-vilkår. Anbefaling: tegne motivet på nytt som eget SVG i fase 4, så Cidea eier det fullt ut |
-| Illustrasjoner på konseptkort | Konsepter | Generert av Stitch som HTML/CSS | Som over | **Må avklares**. Tegnes på nytt som eget SVG i fase 4 |
+| Cidea-motivet (fargeplan) og heltekunst | Hero, markører på kort, konsept, 404, ikon | **Tegnet på nytt som egne SVG-filer** i `motif/svg/` fra en dokumentert regel (`motif/generate-motif.mjs`). Opprinnelig idé fra en Stitch-skisse | Cideas eget materiale | OK for egne SVG-er. Selve idéen stammer fra en Stitch-generering. Stitch-vilkårene bør likevel leses av bruker |
+| Illustrasjoner på konseptkort | Konsepter | Erstattet av motivets `konsept-kort.svg` i utkast 2 | Cideas eget | OK |
 | Fotografi | – | – | – | **Ingen** brukes i konsept C |
 | AI-bilder fra konsept A og B (`phase2/concept-A/A-bilde-*.png`, B-grafikk) | – | Stitch | – | **Brukes ikke.** Ligger kun som dokumentasjon av forkastede retninger |
 | Tekst i Stitch-skissene | Utkast | Generert av Stitch og bearbeidet via prompts | – | Utkast. Endelig tekst skrives og godkjennes av ChatGPT/bruker |
 | Artikkeltekst «Hvor mye koster en nettside?» | Artikkelmal | Eget innhold (`blog/hvor-mye-koster-en-nettside.md`) | Cideas eget | OK |
 | Ordmerke «CIDEA MARKETING» | Toppmeny, bunntekst | Satt i Outfit med terrakotta-kvadrat | Font: OFL | **Må avklares:** ingen godkjent logofil finnes. Varemerke/navn må bekreftes av bruker |
+| Personverntekst | Personvern | Utkast med tydelige hull | – | **Må fullføres og kvalitetssikres av eier** før publisering |
 
 **Prinsipp for lansering:** alt som vises på nettsiden, skal enten være eget materiale (egne SVG-er, egen tekst) eller ha dokumentert lisens. Ingen Stitch-skjermbilder publiseres som bilder på nettsiden; skissene er kun referanse for implementeringen.

diff --git a/docs/cinematic-pilot/phase3/prompts/u2-13-tilnaerming-mobil.md b/docs/cinematic-pilot/phase3/prompts/u2-13-tilnaerming-mobil.md
@@ -1,0 +1,6 @@
+PAGE: «Tilnærming», MOBILE 390px. Same header («CIDEA MARKETING» + «Meny»), footer and design system as the homepage mobile screen in this project.
+1. H1 «Et langsiktig partnerskap for digital vekst og stabilitet.» Sentence «Vi jobber med bedrifter over tid: fra første avklaring til videreutvikling etter lansering.» Full-width button «Snakk med oss». Artwork at full width: {{SVG:hero-mobil}}
+2. H2 «Slik jobber vi»: three connected colour planes stacked vertically and touching (navy, deep terracotta, forest green), white text: «Avklare behov» – «Vi går gjennom virksomheten, målgruppen og målene.»; «Designe og utvikle» – «Vi lager struktur, design og innhold og bygger løsningen.»; «Videreutvikle» – «Etter lansering kan vi forbedre og vedlikeholde løsningen over tid.»
+3. H2 «Hva du kan forvente»: a simple list with thin dividers: «Tydelige avklaringer før vi starter» · «Forslag basert på hva bedriften faktisk trenger» · «Løpende forbedringer når det er avtalt» · «Åpen dialog om prioriteringer».
+4. H2 «Cidea Marketing er en del av Cidea» – «Cidea Marketing er Cideas fagmiljø for nettsider, merkevare og digital synlighet.» Graphic {{SVG:konsept-kort}}. Buttons «Les om nettsider» and «Snakk med oss».
+5. Closing CTA exactly as in the rules (forest green field), then footer.

diff --git a/docs/cinematic-pilot/STATUS.md b/docs/cinematic-pilot/STATUS.md
@@ -1,7 +1,7 @@
 # Cidea Marketing – Status / verificerbar fremdrift
 
 **Oppdatert:** 2026-10-15
-**Nå:** FASE **3/9 PÅGÅR – utkast 1 klart for vurdering** (2026-10-15). Konsept C er akseptert som kreativt fundament. Leveranser i `phase3/`: DESIGN.md, SIDEPLAN.md, RETTIGHETER.md, 7 sidemaler i Stitch (11 skjermer) og oversikt. Kreditter: 44/400 før fase 3, 16 kall i fase 3, sluttavlesning venter. Fase 3 er **ikke godkjent**. Ingen kode, merge eller deploy.
+**Nå:** FASE **3/9 PÅGÅR – utkast 2 klart for endelig visuell vurdering** (2026-10-16). Konsept C beholdt. 13 sidemaler / 22 skjermer, Cidea-motivet som eget SVG, DESIGN.md v0.2, oppdatert SIDEPLAN og RETTIGHETER. 21 Stitch-kall i utkast 2 (ramme 100 kreditter); forbruk venter på brukerens avlesning. Fase 3 er **ikke godkjent**. Ingen kode, merge eller deploy.
 **Godkjent metode:** ChatGPT → Google Stitch → Claude Code → ChatGPT QA.
 **Kostnadsgrense:** 0 NOK i nye abonnementer/mediekreditter uten eksplisitt brukerbeslutning.
 **Eksperimentgren:** `experiment/cinematic-marketing-pilot`; [draft PR #13](https://github.com/KhalilJel/Cidea-Marketing/pull/13); ingen produksjonsendring.

diff --git a/docs/cinematic-pilot/phase3/prompts/u2-12-konsepter-mobil.md b/docs/cinematic-pilot/phase3/prompts/u2-12-konsepter-mobil.md
@@ -1,0 +1,6 @@
+PAGE: «Konsepter», MOBILE 390px. Same header («CIDEA MARKETING» + «Meny»), footer and design system as the homepage mobile screen in this project.
+1. H1 «Konseptuelle formstudier og digitale utforskninger.» Sentence «Konsepter er egne utforskninger fra Cidea Marketing. De er ikke kundeprosjekter.» Artwork at full width: {{SVG:hero-mobil}}
+2. Navy colour field: H2 «Hva betyr konsept hos oss?» – «Konsepter er egne utforskninger der vi tester formater, oppsett og visuelle ideer. De er ikke leverte kundeprosjekter.»
+3. H2 «Utvalgte formstudier». One concept card: graphic {{SVG:konsept-kort}}, label «Konsept – ikke kundeprosjekt», title «Cidea-motivet – et geometrisk system», sentence «En undersøkelse av hvordan sammenkoblede fargeplan og ett diagonalt hakk kan bære en hel visuell identitet.», full-width link button «Se konseptet».
+4. Light module: «Flere konsepter kommer» – «Vi publiserer nye konsepter når de er ferdig utviklet.»
+5. Closing CTA exactly as in the rules, then footer.

diff --git a/docs/cinematic-pilot/phase3/prompts/u2-14-innsikt-mobil.md b/docs/cinematic-pilot/phase3/prompts/u2-14-innsikt-mobil.md
@@ -1,0 +1,6 @@
+PAGE: «Innsikt» (blog index), MOBILE 390px. Same header («CIDEA MARKETING» + «Meny»), footer and design system as the homepage mobile screen in this project.
+1. H1 «Innsikt om nettsider, merkevare og digital vekst.» Sentence «Artikler om nettsider, merkevarebygging, SEO og digital markedsføring for norske bedrifter.» Artwork at full width: {{SVG:artikkel}}
+2. Topic filter as horizontally scrollable chips: Alle · Nettsider · Merkevare · SEO · Digital markedsføring («Alle» selected, deep terracotta).
+3. Featured article in a navy colour field: label «Nettsider», title «Hvor mye koster en nettside?», its real excerpt, button «Les artikkelen».
+4. Three stacked article cards with labels, the other three real titles and their real excerpts from the rules, each with «Les artikkelen». Light cards without outline frames.
+5. Closing CTA exactly as in the rules, then footer.

diff --git a/docs/cinematic-pilot/phase3/prompts/u2-11-variant-mobil.md b/docs/cinematic-pilot/phase3/prompts/u2-11-variant-mobil.md
@@ -1,0 +1,1 @@
+Create the MOBILE (390px) version of this exact page. Keep all content, copy, sections, order, colours, typography (Outfit headings, DM Sans text) and the Cidea motif exactly as on this desktop screen; only recompose the layout for a phone: header with «Meny», stacked sections, full-width buttons, 20px side margins, nothing touching the edges, no word split across lines. Do not add or change any text.

diff --git a/docs/cinematic-pilot/phase3/prompts/u2-20b-merkevare-fiks.md b/docs/cinematic-pilot/phase3/prompts/u2-20b-merkevare-fiks.md
@@ -1,0 +1,1 @@
+Targeted fix on this screen only, change nothing else: remove every numbering label such as «Fase 1», «Fase 2», «Fase 3» (and any «01/02/03»). The three steps in «Slik jobber vi» keep only their titles «Avklare behov», «Utforme», «Ta i bruk» and their sentences, shown as connected colour planes without numbers.
